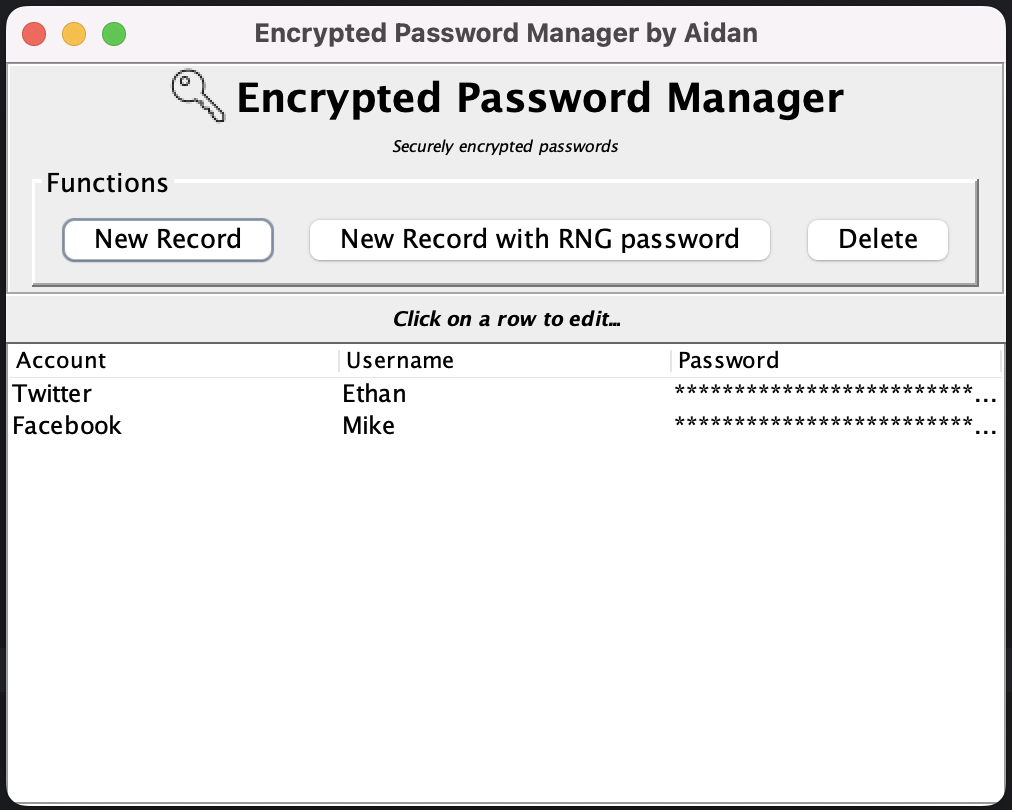
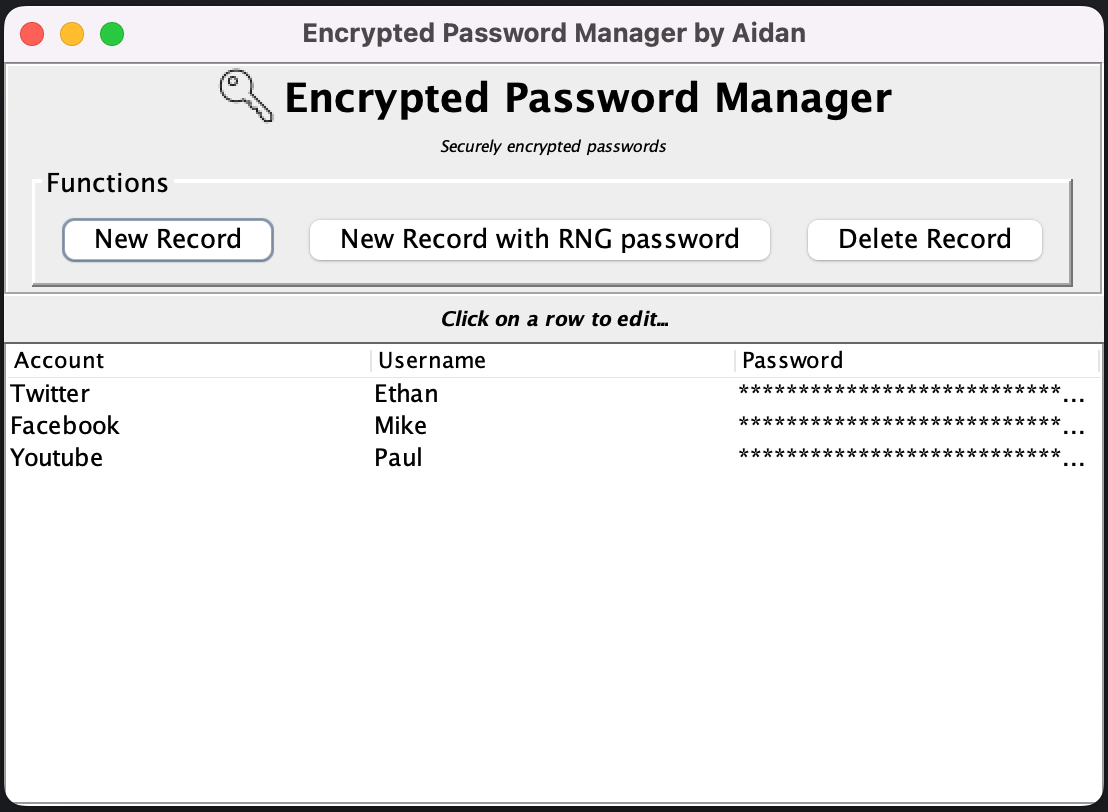
Finishing touches

Changed region(s): [[0.0, 0.0, 1.0, 1.0], [0.1532, 0.0617, 0.8271, 0.1852], [0.2451, 0.0309, 0.7658, 0.0617]]

diff --git a/src/main/java/Frontend/UXSwing.java b/src/main/java/Frontend/UXSwing.java
@@ -77,8 +77,6 @@ public class UXSwing {
                             (JFrame) SwingUtilities.getWindowAncestor(main),
                             "Update",
                             "Record updated successfully.",
-                            500,
-                            100,
                             1000
                     );
                     popup.showDialog();
@@ -120,8 +118,6 @@ public class UXSwing {
                         (JFrame) SwingUtilities.getWindowAncestor(main),
                         "Update",
                         "Record deleted successfully.",
-                        500,
-                        100,
                         1000
                 );
                 popup.showDialog();
@@ -184,8 +180,6 @@ public class UXSwing {
                         (JFrame) SwingUtilities.getWindowAncestor(main),
                         "Update",
                         "Record added successfully.",
-                        500,
-                        100,
                         1000
                 );
                 popup.showDialog();

diff --git a/src/main/java/Frontend/AutoDisappearPopup.java b/src/main/java/Frontend/AutoDisappearPopup.java
@@ -9,14 +9,14 @@ public class AutoDisappearPopup extends JComponent {
     private JLabel messageLabel;
     private final int displayTime;
 
-    public AutoDisappearPopup(JFrame parentFrame, String title, String Message, int width, int height, int displayTimeInMillis) {
+    public AutoDisappearPopup(JFrame parentFrame, String title, String Message, int displayTimeInMillis) {
         this.displayTime = displayTimeInMillis;
-        initializeDialog(parentFrame, title, Message, width, height);
+        initializeDialog(parentFrame, title, Message);
     }
 
-    private void initializeDialog(JFrame parentFrame, String title, String message, int width, int height) {
+    private void initializeDialog(JFrame parentFrame, String title, String message) {
         dialog = new JDialog(parentFrame, title, false);
-        dialog.setSize(width, height);
+        dialog.setSize(500, 100);
         dialog.setLocationRelativeTo(parentFrame);
 
         // Initialize and add the message label

diff --git a/src/main/java/executor/Main.java b/src/main/java/executor/Main.java
@@ -13,7 +13,7 @@ public class Main {
         UXSwing ux = new UXSwing();
         frame.setContentPane(ux.getMainPanel());
         frame.setDefaultCloseOperation(JFrame.EXIT_ON_CLOSE);
-        frame.setSize(500, 400);
+        frame.setSize(550, 400);
         frame.setVisible(true);
     }
     }
